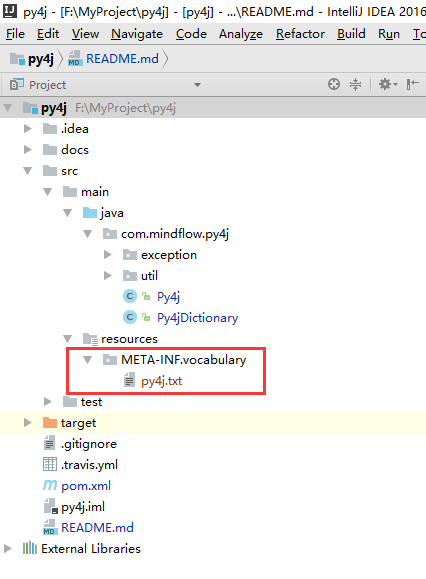
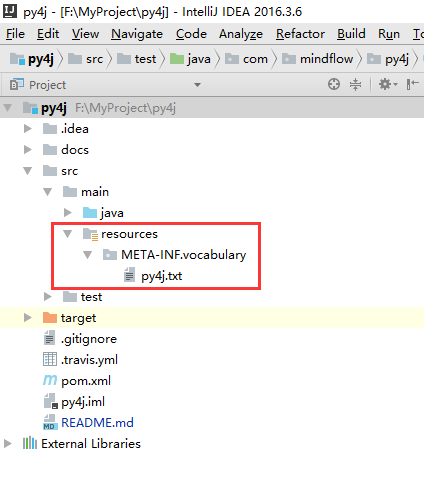
clean code

Changed region(s): [[0.0, 0.0, 1.0, 0.9776]]

diff --git a/src/main/java/com/mindflow/py4j/PinyinConverter.java b/src/main/java/com/mindflow/py4j/PinyinConverter.java
@@ -1,8 +1,9 @@
 package com.mindflow.py4j;
 
-import com.mindflow.py4j.exception.IllegalPinyinException2;
+import com.mindflow.py4j.exception.IllegalPinyinException;
 import com.mindflow.py4j.util.StringUtils;
 import com.google.common.collect.ArrayListMultimap;
+import com.mindflow.py4j.voc.Py4jDictionary;
 import net.sourceforge.pinyin4j.PinyinHelper;
 import net.sourceforge.pinyin4j.format.HanyuPinyinCaseType;
 import net.sourceforge.pinyin4j.format.HanyuPinyinOutputFormat;
@@ -21,7 +22,7 @@ public class PinyinConverter implements Converter {
 	}
 
 	@Override
-	public String[] getPinyin(char ch) throws IllegalPinyinException2 {
+	public String[] getPinyin(char ch) throws IllegalPinyinException {
 		try{
 			HanyuPinyinOutputFormat outputFormat = new HanyuPinyinOutputFormat();
 			outputFormat.setToneType(HanyuPinyinToneType.WITHOUT_TONE);
@@ -33,13 +34,13 @@ public class PinyinConverter implements Converter {
 			}
 			return PinyinHelper.toHanyuPinyinStringArray(ch, outputFormat);
 		} catch (BadHanyuPinyinOutputFormatCombination e) {
-			throw new IllegalPinyinException2(e);
+			throw new IllegalPinyinException(e);
 		}
 
 	}
 
 	@Override
-	public String getPinyin(String chinese) throws IllegalPinyinException2 {
+	public String getPinyin(String chinese) throws IllegalPinyinException {
 		if(StringUtils.isEmpty(chinese)){
 			return null;
 		}
@@ -51,7 +52,7 @@ public class PinyinConverter implements Converter {
 		for(int i=0;i<chs.length;i++){
 			String[] py_arr = getPinyin(chs[i]);
 			if(py_arr==null || py_arr.length<1){
-				throw new IllegalPinyinException2("pinyin array is empty, char:"+chs[i]+",chinese:"+chinese);
+				throw new IllegalPinyinException("pinyin array is empty, char:"+chs[i]+",chinese:"+chinese);
 			}
 			if(py_arr.length==1){
 				py_sb.append(convertInitialToUpperCase(py_arr[0]));

diff --git a/src/test/java/com/mindflow/py4j/PinyinConverterTest.java b/src/test/java/com/mindflow/py4j/PinyinConverterTest.java
@@ -1,6 +1,6 @@
 package com.mindflow.py4j;
 
-import com.mindflow.py4j.exception.IllegalPinyinException2;
+import com.mindflow.py4j.exception.IllegalPinyinException;
 import org.junit.*;
 
 import java.util.Arrays;
@@ -8,37 +8,37 @@ import java.util.Arrays;
 /**
  * Unit test for simple App.
  */
-public class Py4jTest {
-	private PinyinConverter py4j;
+public class PinyinConverterTest {
+	private Converter pinyinConverter;
 
 	@Before
 	public void init(){
-		py4j = new PinyinConverter();
+		pinyinConverter = new PinyinConverter();
 	}
 
 	@Test
-	public void testChinesePy() throws IllegalPinyinException2 {
+	public void testChinesePy() throws IllegalPinyinException {
 
 		final String[] arr = {"肯德基", "重庆银行", "长沙银行", "便宜坊", "西藏", "藏宝图", "出差", "参加", "列车长"};
 		
 		for (String chinese : arr){
-			String py = py4j.getPinyin(chinese);
+			String py = pinyinConverter.getPinyin(chinese);
 			System.out.println(chinese+"\t"+py);
 		}
 	}
 	
 	@Test
-	public void testCharPy() throws IllegalPinyinException2 {
+	public void testCharPy() throws IllegalPinyinException {
 
 		char[] chs = {'长', '行', '藏', '度', '阿', '佛', '2', 'A', 'a'};
 		for(char ch : chs){
-			String[] arr_py = py4j.getPinyin(ch);
+			String[] arr_py = pinyinConverter.getPinyin(ch);
 			System.out.println(ch+"\t"+Arrays.toString(arr_py));
 		}
 	}
 
 	@After
 	public void destroy(){
-		py4j = null;
+		pinyinConverter = null;
 	}
 }

diff --git a/src/test/java/com/mindflow/py4j/ThreadSafeTest.java b/src/test/java/com/mindflow/py4j/ThreadSafeTest.java
@@ -15,7 +15,7 @@ public class ThreadSafeTest {
     public static void main(String[] args) {
 
         final String[] arr = {"大夫", "重庆银行", "长沙银行", "便宜坊", "西藏", "藏宝图", "出差", "参加", "列车长"};
-        final PinyinConverter py4j = new PinyinConverter();
+        final Converter pinyinConverter = new PinyinConverter();
 
         int threadNum = 20;
         ExecutorService pool = Executors.newFixedThreadPool(threadNum);
@@ -26,7 +26,7 @@ public class ThreadSafeTest {
 
                     System.out.println("thread "+Thread.currentThread().getName()+" start");
                     for(int i=0;i<1000;i++){
-                        py4j.getPinyin(arr[i%arr.length]);
+                        pinyinConverter.getPinyin(arr[i%arr.length]);
                     }
                     System.out.println("thread "+Thread.currentThread().getName()+" over");
                     return null;

diff --git a/src/main/java/com/mindflow/py4j/exception/IllegalPinyinException.java b/src/main/java/com/mindflow/py4j/exception/IllegalPinyinException.java
@@ -1,0 +1,25 @@
+package com.mindflow.py4j.exception;
+
+/**
+ *
+ * @author Ricky Fung
+ */
+public class IllegalPinyinException extends Exception {
+
+    private static final long serialVersionUID = 4447260855879734366L;
+
+    public IllegalPinyinException() {
+    }
+
+    public IllegalPinyinException(String message) {
+        super(message);
+    }
+
+    public IllegalPinyinException(String message, Throwable cause) {
+        super(message, cause);
+    }
+
+    public IllegalPinyinException(Throwable cause) {
+        super(cause);
+    }
+}

diff --git a/src/main/java/com/mindflow/py4j/Converter.java b/src/main/java/com/mindflow/py4j/Converter.java
@@ -1,13 +1,13 @@
 package com.mindflow.py4j;
 
-import com.mindflow.py4j.exception.IllegalPinyinException2;
+import com.mindflow.py4j.exception.IllegalPinyinException;
 
 /**
  * @author Ricky Fung
  */
 public interface Converter {
 
-    String[] getPinyin(char ch) throws IllegalPinyinException2;
+    String[] getPinyin(char ch) throws IllegalPinyinException;
 
-    String getPinyin(String chinese) throws IllegalPinyinException2;
+    String getPinyin(String chinese) throws IllegalPinyinException;
 }

diff --git a/src/main/java/com/mindflow/py4j/voc/Py4jDictionary.java b/src/main/java/com/mindflow/py4j/voc/Py4jDictionary.java
@@ -1,4 +1,4 @@
-package com.mindflow.py4j;
+package com.mindflow.py4j.voc;
 
 import com.mindflow.py4j.util.IoUtils;
 import com.mindflow.py4j.util.StringUtils;
@@ -40,7 +40,7 @@ public class Py4jDictionary {
         return SingletonHolder.INSTANCE;
     }
 
-    ArrayListMultimap<String,String> getDuoYinZiMap(){
+    public ArrayListMultimap<String,String> getDuoYinZiMap(){
         checkInit();
         return duoYinZiMap;
     }

diff --git a/README.md b/README.md
@@ -17,11 +17,11 @@ A open-source Java library for converting Chinese to Pinyin.
 ## Usage
 ### 1. single char
 ```
-Py4j py4j = new Py4j();
+Converter pinyinConverter = new PinyinConverter();
 
 char[] chs = {'长', '行', '藏', '度', '阿', '佛', '2', 'A', 'a'};
 for(char ch : chs){
-    String[] arr_py = py4j.getPinyin(ch);
+    String[] arr_py = pinyinConverter.getPinyin(ch);
     System.out.println(ch+"\t"+Arrays.toString(arr_py));
 }
 ```
@@ -41,11 +41,11 @@ a	[a]
 
 ### 2. word
 ```
-Py4j py4j = new Py4j();
+Converter pinyinConverter = new PinyinConverter();
 
 final String[] arr = {"肯德基", "重庆银行", "长沙银行", "便宜坊", "西藏", "藏宝图", "出差", "参加", "列车长"};
 for (String chinese : arr){
-    String py = py4j.getPinyin(chinese);
+    String py = pinyinConverter.getPinyin(chinese);
     System.out.println(chinese+"\t"+py);
 }
 ```
@@ -83,7 +83,7 @@ du#读/都/度
 Testcase:
 ```
 final String[] arr = {"大夫", "重庆银行", "长沙银行", "便宜坊", "西藏", "藏宝图", "出差", "参加", "列车长"};
-final Py4j py4j = new Py4j();
+final Converter pinyinConverter = new PinyinConverter();
 
 int threadNum = 20;
 ExecutorService pool = Executors.newFixedThreadPool(threadNum);
@@ -94,7 +94,7 @@ for(int i=0;i<threadNum;i++){
 
             System.out.println("thread "+Thread.currentThread().getName()+" start");
             for(int i=0;i<1000;i++){
-                py4j.getPinyin(arr[i%arr.length]);
+                pinyinConverter.getPinyin(arr[i%arr.length]);
             }
             System.out.println("thread "+Thread.currentThread().getName()+" over");
             return null;
